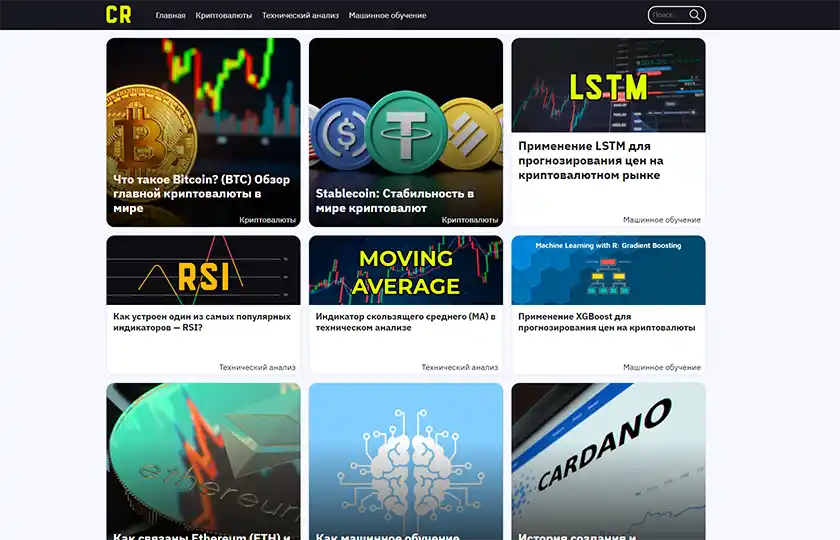
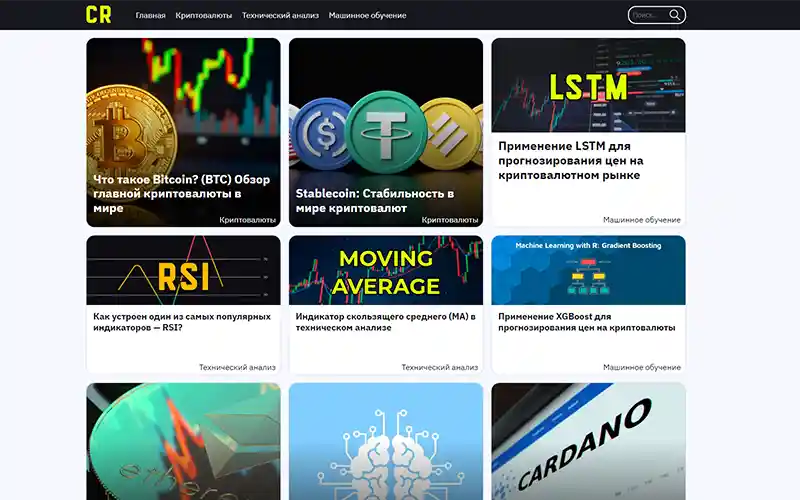
Added picture for multiple size images

diff --git a/src/components/sections/projects/projects.jsx b/src/components/sections/projects/projects.jsx
@@ -1,14 +1,11 @@
-import React, { Suspense, lazy } from "react";
+import React from "react";
 import { StyledProjects, StyledProjectsGrid } from "./styled";
 import Title, { TitleColor, TitleLevel, TitleType } from "../../ui/title/title";
 import Data from "../../../data/projectsData.json";
 import Container from "../../containers/container/container";
-import { useInView } from "react-intersection-observer";
-const Card = lazy(() => import("../../ui/card/card"));
+import Card from "../../ui/card/card";
 
 function Projects() {
-  const { ref, inView } = useInView({ triggerOnce: true });
-
   return (
     <StyledProjects id="projects">
       <Container>
@@ -19,10 +16,8 @@ function Projects() {
         >
           МОИ ПРОЕКТЫ
         </Title>
-        <StyledProjectsGrid ref={ref}>
-          <Suspense fallback={<div />}>
-            {inView && <Card data={Data} />}
-          </Suspense>
+        <StyledProjectsGrid>
+          <Card data={Data} />
         </StyledProjectsGrid>
       </Container>
     </StyledProjects>

diff --git a/src/components/ui/card/card.jsx b/src/components/ui/card/card.jsx
@@ -4,6 +4,7 @@ import {
   StyledImage,
   StyledCardLinksContainer,
   StyledStack,
+  StyledPicture,
 } from "./styled";
 import Title, { TitleColor, TitleLevel, TitleType } from "../title/title";
 import Stack from "../stack/stack";
@@ -36,10 +37,10 @@ function Card({ data }) {
           viewport={{ once: true }}
           key={index}
         >
-          <StyledImage
-            src={process.env.PUBLIC_URL + item.image}
-            alt={item.title + " скриншот"}
-          />
+          <StyledPicture>
+            <source srcSet={process.env.PUBLIC_URL + item.imageMobile} media="(max-width: 576px)"/>
+            <StyledImage src={process.env.PUBLIC_URL + item.image} alt={item.title + " скриншот"} />
+          </StyledPicture>
           <Title
             level={TitleLevel.H3}
             color={TitleColor.PRIMARY}

diff --git a/src/components/layouts/footer/footer.jsx b/src/components/layouts/footer/footer.jsx
@@ -1,16 +1,13 @@
-import React, { Suspense, lazy } from "react";
+import React from "react";
 import Container from "../../containers/container/container";
 import { StyledFooter } from "./styled";
-import { useInView } from "react-intersection-observer";
-const Contacts = lazy(() => import("../../sections/contacts/contacts"));
+import Contacts from "../../sections/contacts/contacts";
 
 function Footer() {
-  const { ref, inView } = useInView({ triggerOnce: true });
-
   return (
-    <StyledFooter ref={ref}>
+    <StyledFooter>
       <Container>
-        <Suspense fallback={<div />}>{inView && <Contacts />}</Suspense>
+        <Contacts />
       </Container>
     </StyledFooter>
   );

diff --git a/src/components/ui/card/styled.js b/src/components/ui/card/styled.js
@@ -18,13 +18,15 @@ export const StyledCard = styled.div`
 `;
 
 export const StyledImage = styled.img`
-  max-width: 540px;
-  max-height: 500px;
-  border-radius: 20px 20px 0 0;
+  object-fit: cover;
+  height: auto;
+  width:100%;
+`;
 
-  @media (max-width: ${(props) => props.theme.deviceSizes.tablet}) {
-    max-width: 500px;
-  }
+export const StyledPicture = styled.picture`
+  display: flex;
+  height: 100%;
+  width: 100%;
 `;
 
 export const StyledCardLinksContainer = styled.div`

diff --git a/src/components/sections/education/styled.js b/src/components/sections/education/styled.js
@@ -1,7 +1,7 @@
 import styled from "styled-components";
 
 export const StyledEducation = styled.section`
-  padding-top: 80px;
+  margin-top: 80px;
 `;
 
 export const StyledEducationGrid = styled.div`

diff --git a/src/components/sections/projects/styled.js b/src/components/sections/projects/styled.js
@@ -1,7 +1,7 @@
 import styled from "styled-components";
 
 export const StyledProjects = styled.section`
-  padding: 100px 0;
+  margin: 100px 0;
 `;
 
 export const StyledProjectsGrid = styled.div`

diff --git a/src/components/layouts/footer/styled.js b/src/components/layouts/footer/styled.js
@@ -1,5 +1,5 @@
 import { styled } from "styled-components";
 
 export const StyledFooter = styled.footer`
-  padding: 30px 0;
+  margin: 30px 0;
 `;
